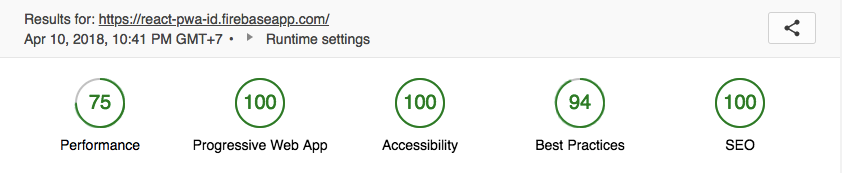
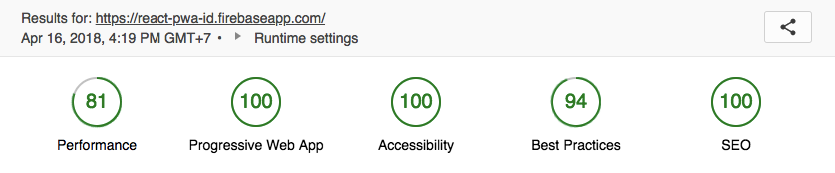
Update score in readme

diff --git a/README.md b/README.md
@@ -7,14 +7,14 @@ Live Preview : https://react-pwa-id.firebaseapp.com/
 
 <img src="assets/screenshot-score.png" />
 
-See webpagetest.org performance test in 4/10/2018, 10:17:24 PM [Click here](https://www.webpagetest.org/result/180410_5N_f2e24e8d09510aadd1096c64c1a655c8/)
+See webpagetest.org performance test in 4/16/2018, 4:23:51 PM [Click here](https://www.webpagetest.org/result/180416_BK_c2aafe31c07fde3718500ec0d3216b32/)
 
 <br>
 <br>
 
 <img src="assets/screenshot-lighthouse.png" />
 
-See webpagetest.org lighthouse score in 4/10/2018, 10:17:24 PM [Click here](https://www.webpagetest.org/result/180410_G3_c8a32415f117b6aee0788703e28e7e32/)
+See webpagetest.org lighthouse score in Apr 16, 2018, 4:19 PM GMT+7 [Click here](https://www.webpagetest.org/result/180416_39_e39579c3455fb9d0a4f8b361340d3a8b/)
 
 ## Features
 - [x] PWA - Progressive Web Application
